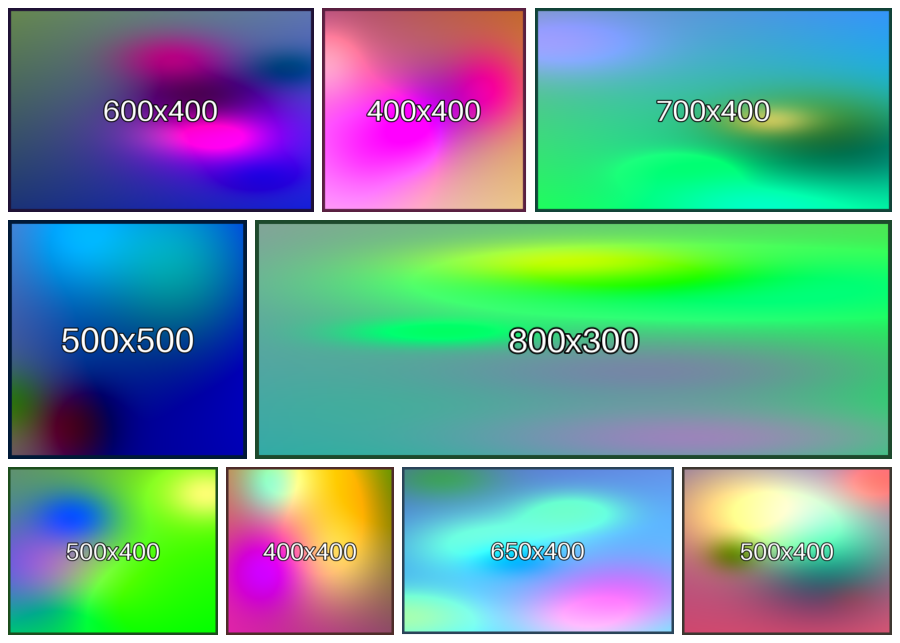
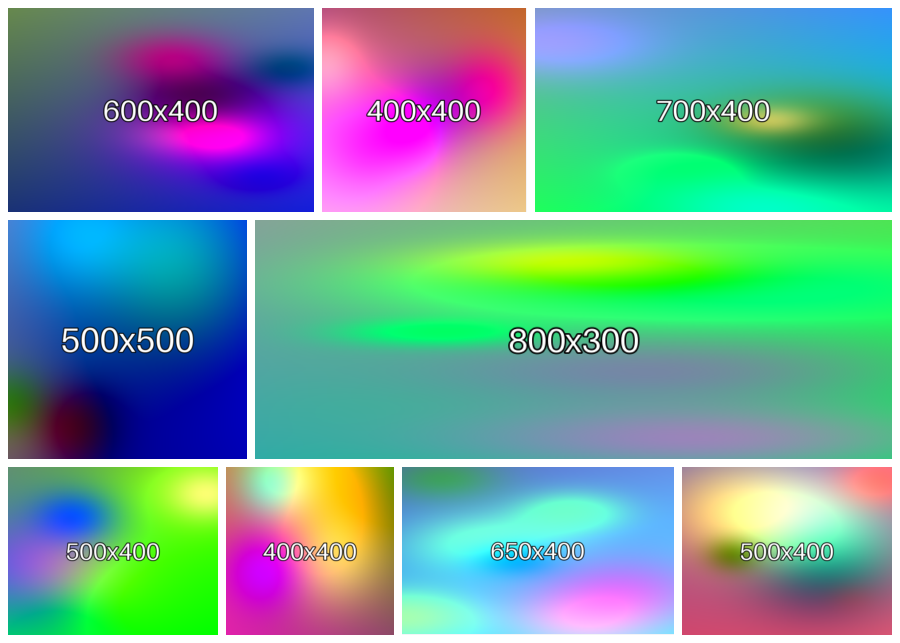
gallery: sample photos have no frame, so slot edges are unambiguous

Changed region(s): [[0.0, 0.0, 0.9956, 0.9953]]

diff --git a/examples/gallery/_kit.py b/examples/gallery/_kit.py
@@ -57,8 +57,8 @@ def draw_plan(plan: Plan[Any], scale: int = 2, size: int = 18) -> np.ndarray:
 
 
 def photo(h: int, w: int, seed: int, caption: bool = True) -> np.ndarray:
-    """A procedural 'photograph' (soft colour blobs) with a frame in a dark shade of its own colours and its
-    own size printed on it, so crops, letterboxing and resizes are easy to see."""
+    """A procedural 'photograph' (soft colour blobs) with its own size printed on it,
+    so crops, letterboxing and resizes are easy to see."""
     rng = np.random.default_rng(seed)
     yy, xx = np.mgrid[0:h, 0:w].astype(np.float32)
     yy, xx = yy / h, xx / w
@@ -75,9 +75,6 @@ def photo(h: int, w: int, seed: int, caption: bool = True) -> np.ndarray:
         img += blob[..., None] * rng.uniform(-0.5, 0.6, 3)
     out = Image.fromarray((np.clip(img, 0, 1) * 255).astype(np.uint8))
     d = ImageDraw.Draw(out)
-    # a dark tone of the image's mean colour: visible on light and dark backgrounds alike
-    frame = tuple(int(c * 0.35) for c in img.reshape(-1, 3).mean(0).clip(0, 1) * 255)
-    d.rectangle((0, 0, w - 1, h - 1), outline=frame, width=max(2, min(h, w) // 60))
     if caption:
         d.text((w / 2, h / 2), f"{w}x{h}", font=font(max(10, min(h, w) // 7)), fill=(255, 255, 255),
                anchor="mm", stroke_width=2, stroke_fill=(0, 0, 0))  # fmt: skip
